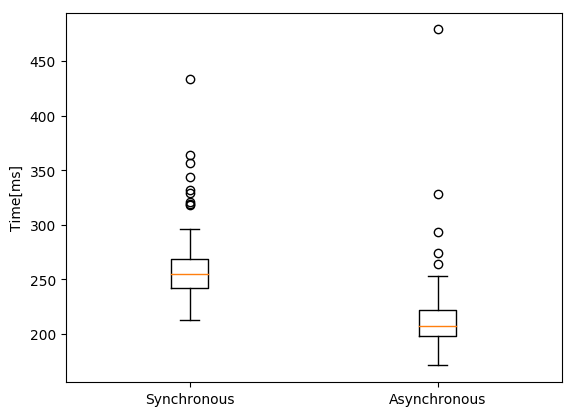
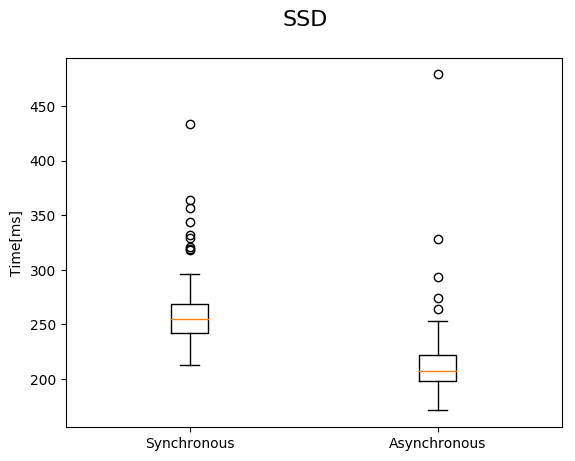
Finish lab5

diff --git a/lab5/zad2.js b/lab5/zad2.js
@@ -3,7 +3,7 @@ const fs = require('fs');
 const async = require("async");
 
 function linecount(file, ok, error) {
-    console.log("linecout %s", file);
+    // console.log("linecout %s", file);
     let count = 0;
     fs.createReadStream(file).on('data', (chunk) => {
         count += chunk.toString('utf8')
@@ -23,6 +23,9 @@ function S_ISREG(mode) {
     return ((mode) & S_IFMT) == S_IFREG;
 }
 
+/*
+ * In this soulution I acquire whole path list before processing.
+ */
 function synchronous(root, ok) {
     let objects = walk.sync(root, {"return_object": true});
     let paths = Object.keys(objects);
@@ -81,7 +84,7 @@ let hrstart = process.hrtime();
 synchronous("./PAM08", (count) => {
     let hrend = process.hrtime(hrstart);
     let millis = Math.round(hrend[0]*1e3 + hrend[1]/1e6);
-    console.log("sync, %d", millis);
+    console.log("sync, %d, %d", millis, count);
 });
 
 <? } else { ?>
@@ -89,7 +92,7 @@ synchronous("./PAM08", (count) => {
 asynchronous("./PAM08", (count) => {
     let hrend = process.hrtime(hrstart);
     let millis = Math.round(hrend[0]*1e3 + hrend[1]/1e6);
-    console.log("async, %d", millis);
+    console.log("async, %d, %d", millis, count);
 });
 
 <?  } ?>

diff --git a/lab5/zad1.js b/lab5/zad1.js
@@ -54,7 +54,7 @@ function loop_a(n) {
  */
 const async = require("async");
 function loop_b(n) {
-    let tasks = [...Array(n).keys()].map((_) => {
+    let tasks = [...Array(n).keys()].map((i) => {
         return (nextTask) => task1(() => nextTask());
     });
     async.waterfall(tasks, () => console.log("done!"));

diff --git a/lab4/Main.java b/lab4/Main.java
@@ -40,7 +40,7 @@ class MandelbrotWindow extends JFrame {
         setDefaultCloseOperation(EXIT_ON_CLOSE);
 
         THREAD_COUNT = threads;
-        TASK_COUNT = THREAD_COUNT*10;
+        TASK_COUNT = THREAD_COUNT;
         ROWS_PER_THREAD = (int) Math.ceil((HEIGHT*1.0)/TASK_COUNT);
 
         img = new BufferedImage(getWidth(), getHeight(), BufferedImage.TYPE_INT_RGB);
@@ -61,15 +61,18 @@ class MandelbrotWindow extends JFrame {
         for(int chunk = 0; chunk < TASK_COUNT; chunk++) {
             Future<int[][]> future = futures.get(chunk);
             int[][] buff = future.get();
+            /*
             for(int y=0; y<ROWS_PER_THREAD; y++){
                for(int x=0; x<WIDTH; x++){
                    if(x >= WIDTH || chunk*ROWS_PER_THREAD+y >= HEIGHT) { break; }
                     img.setRGB(x, chunk*ROWS_PER_THREAD+y, buff[y][x]);
                 }
             }
+            */
         }
 
         long timeElapsed = System.nanoTime() - timeStart;
+        executorService.shutdown();
         /*
         System.out.println("==== SUMMARY ====");
         System.out.println("Threads no.: " + THREAD_COUNT);
@@ -102,7 +105,11 @@ class MandelbrotWindow extends JFrame {
                         zx = tmp;
                         iter--;
                     }
-                    buff[y-yStart][x] = iter | (iter << 8);
+                    if(x >= WIDTH ||
+                       chunk*ROWS_PER_THREAD+y >= HEIGHT ||
+                       y >= ROWS_PER_THREAD) { break; }
+                    img.setRGB(x, chunk*ROWS_PER_THREAD+y, buff[y][x]);
+                    // buff[y-yStart][x] = iter | (iter << 8);
                 }
             }
 
@@ -118,19 +125,21 @@ class MandelbrotWindow extends JFrame {
 
 public class Main {
     public static void main(String[] args) {
+        /*
         try {
-            new MandelbrotWindow(60).show();
+            new MandelbrotWindow(1).show();
         } catch (Exception e) {
             e.printStackTrace();
         }
-        /*
-        for(int i=1; i<=60; i++){
-            try {
-                new MandelbrotWindow(i).dispose();
-            } catch (Exception e) {
-                e.printStackTrace();
+        */
+        for(int j=0; j<4; j++){
+            for(int i=1; i<=10; i++){
+                try {
+                    new MandelbrotWindow(i);
+                } catch (Exception e) {
+                    e.printStackTrace();
+                }
             }
         }
-        */
     }
 }

diff --git a/lab5/genplot.py b/lab5/genplot.py
@@ -22,6 +22,8 @@ if __name__ == "__main__":
     plot_data = [sync, async]
 
     fig, ax = plt.subplots()
+    if len(sys.argv) >= 3:
+        fig.suptitle(sys.argv[2], fontsize=16)
 
     # Create the boxplot
     bp = ax.boxplot(plot_data, labels = ["Synchronous", "Asynchronous"])
